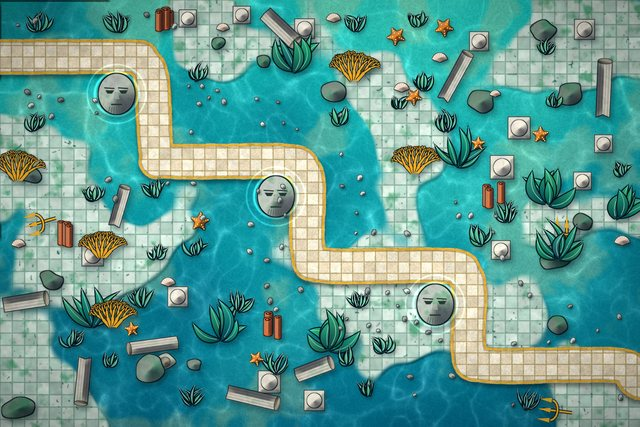
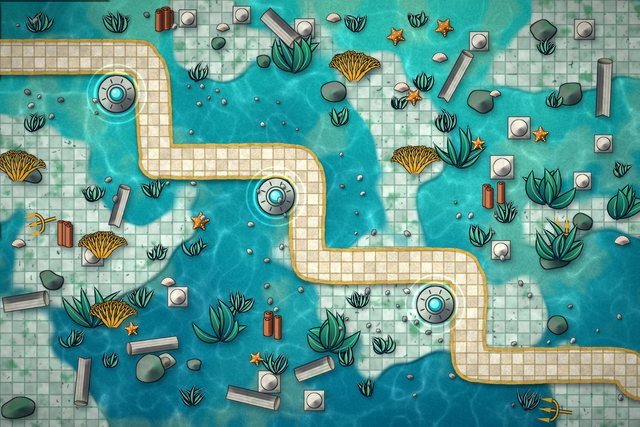
atlantis koruyucu kureleri, yuksek zemin ipucu

Changed region(s): [[0.6562, 0.6393, 0.7188, 0.7916], [0.4062, 0.3958, 0.4688, 0.5176], [0.1562, 0.1522, 0.2188, 0.274]]

diff --git a/src/main/resources/web/js/game.js b/src/main/resources/web/js/game.js
@@ -75,7 +75,29 @@ function fit(img, nominal) {
     }
     return c;
 }
+// yumuşak ışık lekesi: her karede gradyan üretmemek için bir kez çizilip saklanır (alfa ile kullanılır)
+const glowCache = new Map();
+function glowSprite(rgb, r) {
+    const key = `${rgb}|${r}|${res}`;
+    let c = glowCache.get(key);
+    if (!c) {
+        const px = Math.ceil(2 * r * res);
+        c = document.createElement('canvas');
+        c.width = c.height = px;
+        const g = c.getContext('2d');
+        const grad = g.createRadialGradient(px / 2, px / 2, 0, px / 2, px / 2, px / 2);
+        grad.addColorStop(0, `rgba(${rgb},1)`);
+        grad.addColorStop(0.45, `rgba(${rgb},0.35)`);
+        grad.addColorStop(1, `rgba(${rgb},0)`);
+        g.fillStyle = grad;
+        g.fillRect(0, 0, px, px);
+        glowCache.set(key, c);
+    }
+    return c;
+}
+
 function clearSpriteCache() {
+    glowCache.clear();
     spriteCache.clear();
     if (typeof darkSpriteCache !== 'undefined') darkSpriteCache.clear();
     if (typeof spotCache !== 'undefined') spotCache.clear();
@@ -289,7 +311,7 @@ function onWorldEvent(type, d) {
             sfx('gong');
             fx.shake = Math.max(fx.shake || 0, d.hits ? 0.35 : 0.15);
             fx.rings.push({ x: d.x, y: d.y, r: 20, max: d.r, life: 0.9, maxLife: 0.9, color: '120,255,230', fill: true });
-            if (d.hits) addLog(`Koruyucu baş vurdu: ${d.hits} düşman hasar aldı ve sersemledi.`);
+            if (d.hits) addLog(`Koruyucu küre vurdu: ${d.hits} düşman hasar aldı ve sersemledi.`);
             break;
         case 'treasureOpen':
             sfx('upgrade', 0, 0.6);
@@ -1068,24 +1090,29 @@ function drawMechanics() {
         });
     });
 
-    // Atlantis koruyucuları: gözleri ve halesi
+    // Atlantis koruyucu küreleri: dolum arttıkça halka hızlanır ve çekirdek parlar, darbede patlar
+    const gm = world.mech.find(m => m.cfg.type === 'guardians');
     (currentMap.guardians || []).forEach((g, i) => {
-        const glow = fx.guardGlow[i] || 0;
+        const st = gm && gm.guards[i];
+        const charge = st ? Math.max(0, Math.min(1, 1 - st.timer / gm.cfg.interval)) : 0;
+        const glow = Math.min(1, fx.guardGlow[i] || 0);
         const pulse = 0.5 + 0.5 * Math.sin(animTime * 2 + i);
-        const a = 0.18 + 0.12 * pulse + 0.6 * Math.min(1, glow);
-        const grad = ctx.createRadialGradient(g.x, g.y, 4, g.x, g.y, 70);
-        grad.addColorStop(0, `rgba(120,255,235,${a})`);
-        grad.addColorStop(1, 'rgba(120,255,235,0)');
-        ctx.fillStyle = grad;
-        ctx.beginPath();
-        ctx.arc(g.x, g.y, 70, 0, 6.2832);
-        ctx.fill();
-        ctx.fillStyle = `rgba(170,255,245,${0.55 + 0.45 * Math.min(1, glow + pulse * 0.4)})`;
-        [-14, 14].forEach(dx => {
+        const k = Math.min(1, 0.22 + 0.1 * pulse + 0.55 * charge * charge + 0.5 * glow);
+        ctx.globalAlpha = k;
+        ctx.drawImage(glowSprite('120,255,235', 70), g.x - 70, g.y - 70, 140, 140);
+        ctx.globalAlpha = 1;
+        const rot = animTime * (0.5 + 4 * charge);
+        ctx.strokeStyle = `rgba(160,255,242,${0.3 + 0.55 * charge})`;
+        ctx.lineWidth = 2.5;
+        for (let j = 0; j < 4; j++) {
             ctx.beginPath();
-            ctx.ellipse(g.x + dx, g.y - 5, 6, 3.5, 0, 0, 6.2832);
-            ctx.fill();
-        });
+            ctx.arc(g.x, g.y, 46 + 7 * charge, rot + j * 1.5708, rot + j * 1.5708 + 0.9);
+            ctx.stroke();
+        }
+        ctx.fillStyle = `rgba(200,255,250,${Math.min(1, 0.3 + 0.55 * charge + 0.4 * glow)})`;
+        ctx.beginPath();
+        ctx.arc(g.x, g.y, 7 + 7 * charge + 5 * glow, 0, 6.2832);
+        ctx.fill();
     });
 
     // lav patlaması uyarıları
@@ -1818,6 +1845,18 @@ function toLogical(e) {
     return { x: (e.clientX - rect.left - ox) / scale, y: (e.clientY - rect.top - oy) / scale };
 }
 
+// kule yerinin üzerine gelince ne işe yaradığı yazılır (altın halkalı yerler: yüksek zemin)
+let spotHintKind = null;
+function showSpotHint(spot) {
+    const kind = spot ? spot.kind : null;
+    if (kind === spotHintKind) return;
+    spotHintKind = kind;
+    const box = document.getElementById('towerHint');
+    if (kind === 'high') box.innerText = 'Yüksek zemin (altın halka): burada kulenin menzili %20 artar.';
+    else if (kind === 'normal') box.innerText = 'Normal zemin. Altın halkalı yüksek zeminlerde menzil %20 artar.';
+    else box.innerText = 'Bir kulenin üzerine gel';
+}
+
 function spotAt(p) {
     for (const spot of world.spots) {
         if (!spot.tower && Math.hypot(p.x - spot.x, p.y - spot.y) < Core.BUILD_SPOT_RADIUS) return spot;
@@ -1870,12 +1909,13 @@ canvas.addEventListener('mousemove', (e) => {
     if (!world) return;
     const p = toLogical(e);
     hoverSpot = armedType ? spotAt(p) : null;
+    showSpotHint(spotAt(p));
     const t = towerAt(p);
     hoverTowerId = t ? t.id : null;
     const overTreasure = world.treasure && Math.hypot(p.x - world.treasure.x, p.y - world.treasure.y) < 56;
     canvas.style.cursor = overTreasure ? 'pointer' : armedType ? (hoverSpot ? 'copy' : 'not-allowed') : (t ? 'pointer' : 'default');
 });
-canvas.addEventListener('mouseleave', () => { hoverSpot = null; hoverTowerId = null; });
+canvas.addEventListener('mouseleave', () => { hoverSpot = null; hoverTowerId = null; showSpotHint(null); });
 canvas.addEventListener('click', (e) => {
     if (!world || world.result) return;
     const p = toLogical(e);

diff --git a/tools/mapgen/atlantis_props.py b/tools/mapgen/atlantis_props.py
@@ -1,4 +1,4 @@
-"""Atlantis Harabeleri nesneleri: sütun, devrik sütun, taş baş, tapınak tabanı, üç dişli mızrak."""
+"""Atlantis Harabeleri nesneleri: sütun, devrik sütun, koruyucu küre, tapınak tabanı, üç dişli mızrak."""
 import math
 
 import numpy as np
@@ -86,6 +86,33 @@ def stone_head(rng, r=38):
     # sakal çizgileri
     for i in range(-3, 4):
         d.line([((cx + i * r * 0.12) * s, (cx + r * 0.7) * s), ((cx + i * r * 0.16) * s, (cx + r * 1.08) * s)], fill=col8(rgb('#4a5a4f'), 180), width=int(1.6 * s))
+    return Image.alpha_composite(patch, f.finish())
+
+
+def guardian_orb(rng, r=38):
+    """Koruyucu küre (yukarıdan): rün çentikli mermer kaide ve ortasında turkuaz enerji küresi. Yüz yok."""
+    w = h = int(r * 2.8)
+    cx = w / 2
+    m = C.mask_patch(w, h, lambda d, s: d.ellipse([(cx - r) * s, (cx - r) * s, (cx + r) * s, (cx + r) * s], fill=255))
+    col = _marble(m, rng, base=rgb('#d3dbd0'), dark=rgb('#7d8c80'), moss=0.3)
+    patch = C.shade_patch(m, col, sigma=r * 0.55, outline=OUT, outline_px=2.0, rng=rng, grain=0.04, rim=0.3)
+    f = SSCanvas(w, h)
+    d, s = f.d, f.s
+    dk = col8(rgb('#2c3a35'))
+    # sekiz rün çentiği ve iç halka
+    for i in range(8):
+        a = i * math.pi / 4 + math.pi / 8
+        x0, y0 = cx + math.cos(a) * r * 0.64, cx + math.sin(a) * r * 0.64
+        x1, y1 = cx + math.cos(a) * r * 0.88, cx + math.sin(a) * r * 0.88
+        d.line([(x0 * s, y0 * s), (x1 * s, y1 * s)], fill=dk, width=int(2.6 * s))
+    d.ellipse([(cx - r * 0.56) * s, (cx - r * 0.56) * s, (cx + r * 0.56) * s, (cx + r * 0.56) * s], outline=dk, width=int(2.2 * s))
+    # enerji küresi
+    o = r * 0.4
+    d.ellipse([(cx - o) * s, (cx - o) * s, (cx + o) * s, (cx + o) * s], fill=col8(rgb('#22a9c4')), outline=dk, width=int(2.2 * s))
+    o2 = o * 0.62
+    d.ellipse([(cx - o2 - o * 0.1) * s, (cx - o2 - o * 0.12) * s, (cx + o2 - o * 0.1) * s, (cx + o2 - o * 0.12) * s], fill=col8(rgb('#7ffff0'), 235))
+    o3 = o * 0.22
+    d.ellipse([(cx - o3 - o * 0.28) * s, (cx - o3 - o * 0.3) * s, (cx + o3 - o * 0.28) * s, (cx + o3 - o * 0.3) * s], fill=col8(rgb('#ffffff'), 240))
     return Image.alpha_composite(patch, f.finish())
 
 

diff --git a/tools/mapgen/atlantis.py b/tools/mapgen/atlantis.py
@@ -96,11 +96,11 @@ def build(out_path):
     sh_ = (5, 8, 6, 0.38, (0.0, 0.1, 0.12))
 
     # (yüz kabartmalı iki kare tapınak tabanı kaldırıldı: koruyucu başlarla karışıyordu)
-    # koruyucu başlar: oyunda periyodik olarak düşmanlara vurur, altlarında soluk bir rün çemberi var
+    # koruyucu küreler: oyunda periyodik olarak düşmanlara vurur, altlarında soluk bir rün çemberi var
     for gx, gy in S.ATLANTIS_GUARDIANS:
         d = np.sqrt((xx - gx) ** 2 + (yy - gy) ** 2)
         sc.add(rgb('#7ffff0'), np.exp(-((d - 46) / 2.6) ** 2) * 0.42 + np.exp(-((d - 62) / 1.6) ** 2) * 0.22)
-        sc.stamp(AT.stone_head(rng, 38), gx, gy, shadow=(5, 8, 6, 0.4, (0.0, 0.1, 0.12)))
+        sc.stamp(AT.guardian_orb(rng, 38), gx, gy, shadow=(5, 8, 6, 0.4, (0.0, 0.1, 0.12)))
         PL.disk(avoid, gx, gy, 70)
     PL.sprinkle(sc, rng, lambda r: AT.column(r, r.uniform(13, 18), broken=r.random() < 0.4), 16, avoid, 70, weights=ew, block=30, shadow=sh_, keepout=wide)
     PL.sprinkle(sc, rng, lambda r: AT.fallen_column(r, r.uniform(70, 130), r.uniform(11, 16)), 9, avoid, 100, weights=ew, block=50, shadow=sh_, keepout=wide)

diff --git a/README.md b/README.md
@@ -75,7 +75,7 @@ Her haritanın yolu farklı olduğu gibi kendine özel bir kuralı da var. Kural
 | Yosun Ormanı | tek, uzun yılan | yolun iki virajındaki yosun yataklarında düşmanlar %38 yavaşlar |
 | Mangrov Deltası | nehir üçe ayrılır, sonra birleşir | kök bölgesinde düşmanlar %30 yavaşlar |
 | Batık Gemi Mezarlığı | iki girişli, ortada birleşir | sandık ara sıra parlar, **tıklayıp** altın toplarsın |
-| Atlantis Harabeleri | mermer basamaklar | 3 taş koruyucu baş her 10 sn düşmanlara vurup sersemletir |
+| Atlantis Harabeleri | mermer basamaklar | 3 mermer koruyucu küre her 10 sn düşmanlara vurup sersemletir (dolum arttıkça parlar) |
 | Buz Koyu | iki kanal ortada çapraz geçer | kar fırtınası (önceden uyarır): 9 sn boyunca kule menzilleri %25 kısalır |
 | Girdap | spiral | yolun ikinci yarısında düşmanlar girdaba çekilip hızlanır |
 | Volkanik Bacalar | üç sütunlu dikey zigzag | lav patlamaları (önceden uyarır): düşmanı yakar, yakındaki kuleleri 5 sn susturur (kilit simgesi çıkar). Zaman zaman gökten bir lav kayası düşer ve uyarısız bir kuleyi yok eder |
